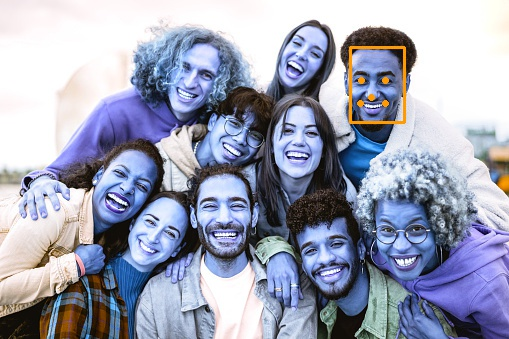
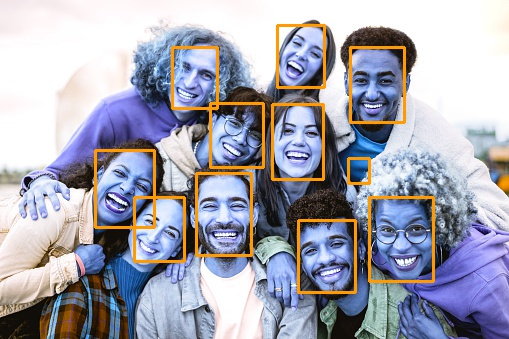
fix pull

diff --git a/Face-detection/MTCNN/face-detection-img.py b/Face-detection/MTCNN/face-detection-img.py
@@ -2,15 +2,10 @@ import imp
 from mtcnn import MTCNN
 import cv2
 
-img = cv2.cvtColor(cv2.imread("E:\python-image-processing\people.jpg"), cv2.COLOR_BGR2RGB)
+img = cv2.cvtColor(cv2.imread("/home/devai01/Me/python-image-processing/people.jpg"), cv2.COLOR_BGR2RGB)
 detector = MTCNN()
 
 faces = detector.detect_faces(img)
-print(len(faces))
-
-# vẽ keypoints và bounding boxes
-def draw(image, face):
-    for i in len(face):
 # [
 #     {
 #         'box': [277, 90, 48, 63],
@@ -32,15 +27,9 @@ def draw(image, face):
         x, y, width, height = person['box']
         cv2.rectangle(image, (x, y), (x+width, y+height), (0, 155, 255), 2)
 
-        for key, value in person['keypoints'].items():
-            cv2.circle(image, value, 2, (0, 155, 255), 2)
-
-    cv2.imwrite('img.jpg', image)
-
-draw(img,faces)
         # for key, value in person['keypoints'].items():
         #     cv2.circle(image, value, 2, (0, 155, 255), 2)
-    
+
     cv2.imwrite("img.jpg", image)
 
 
